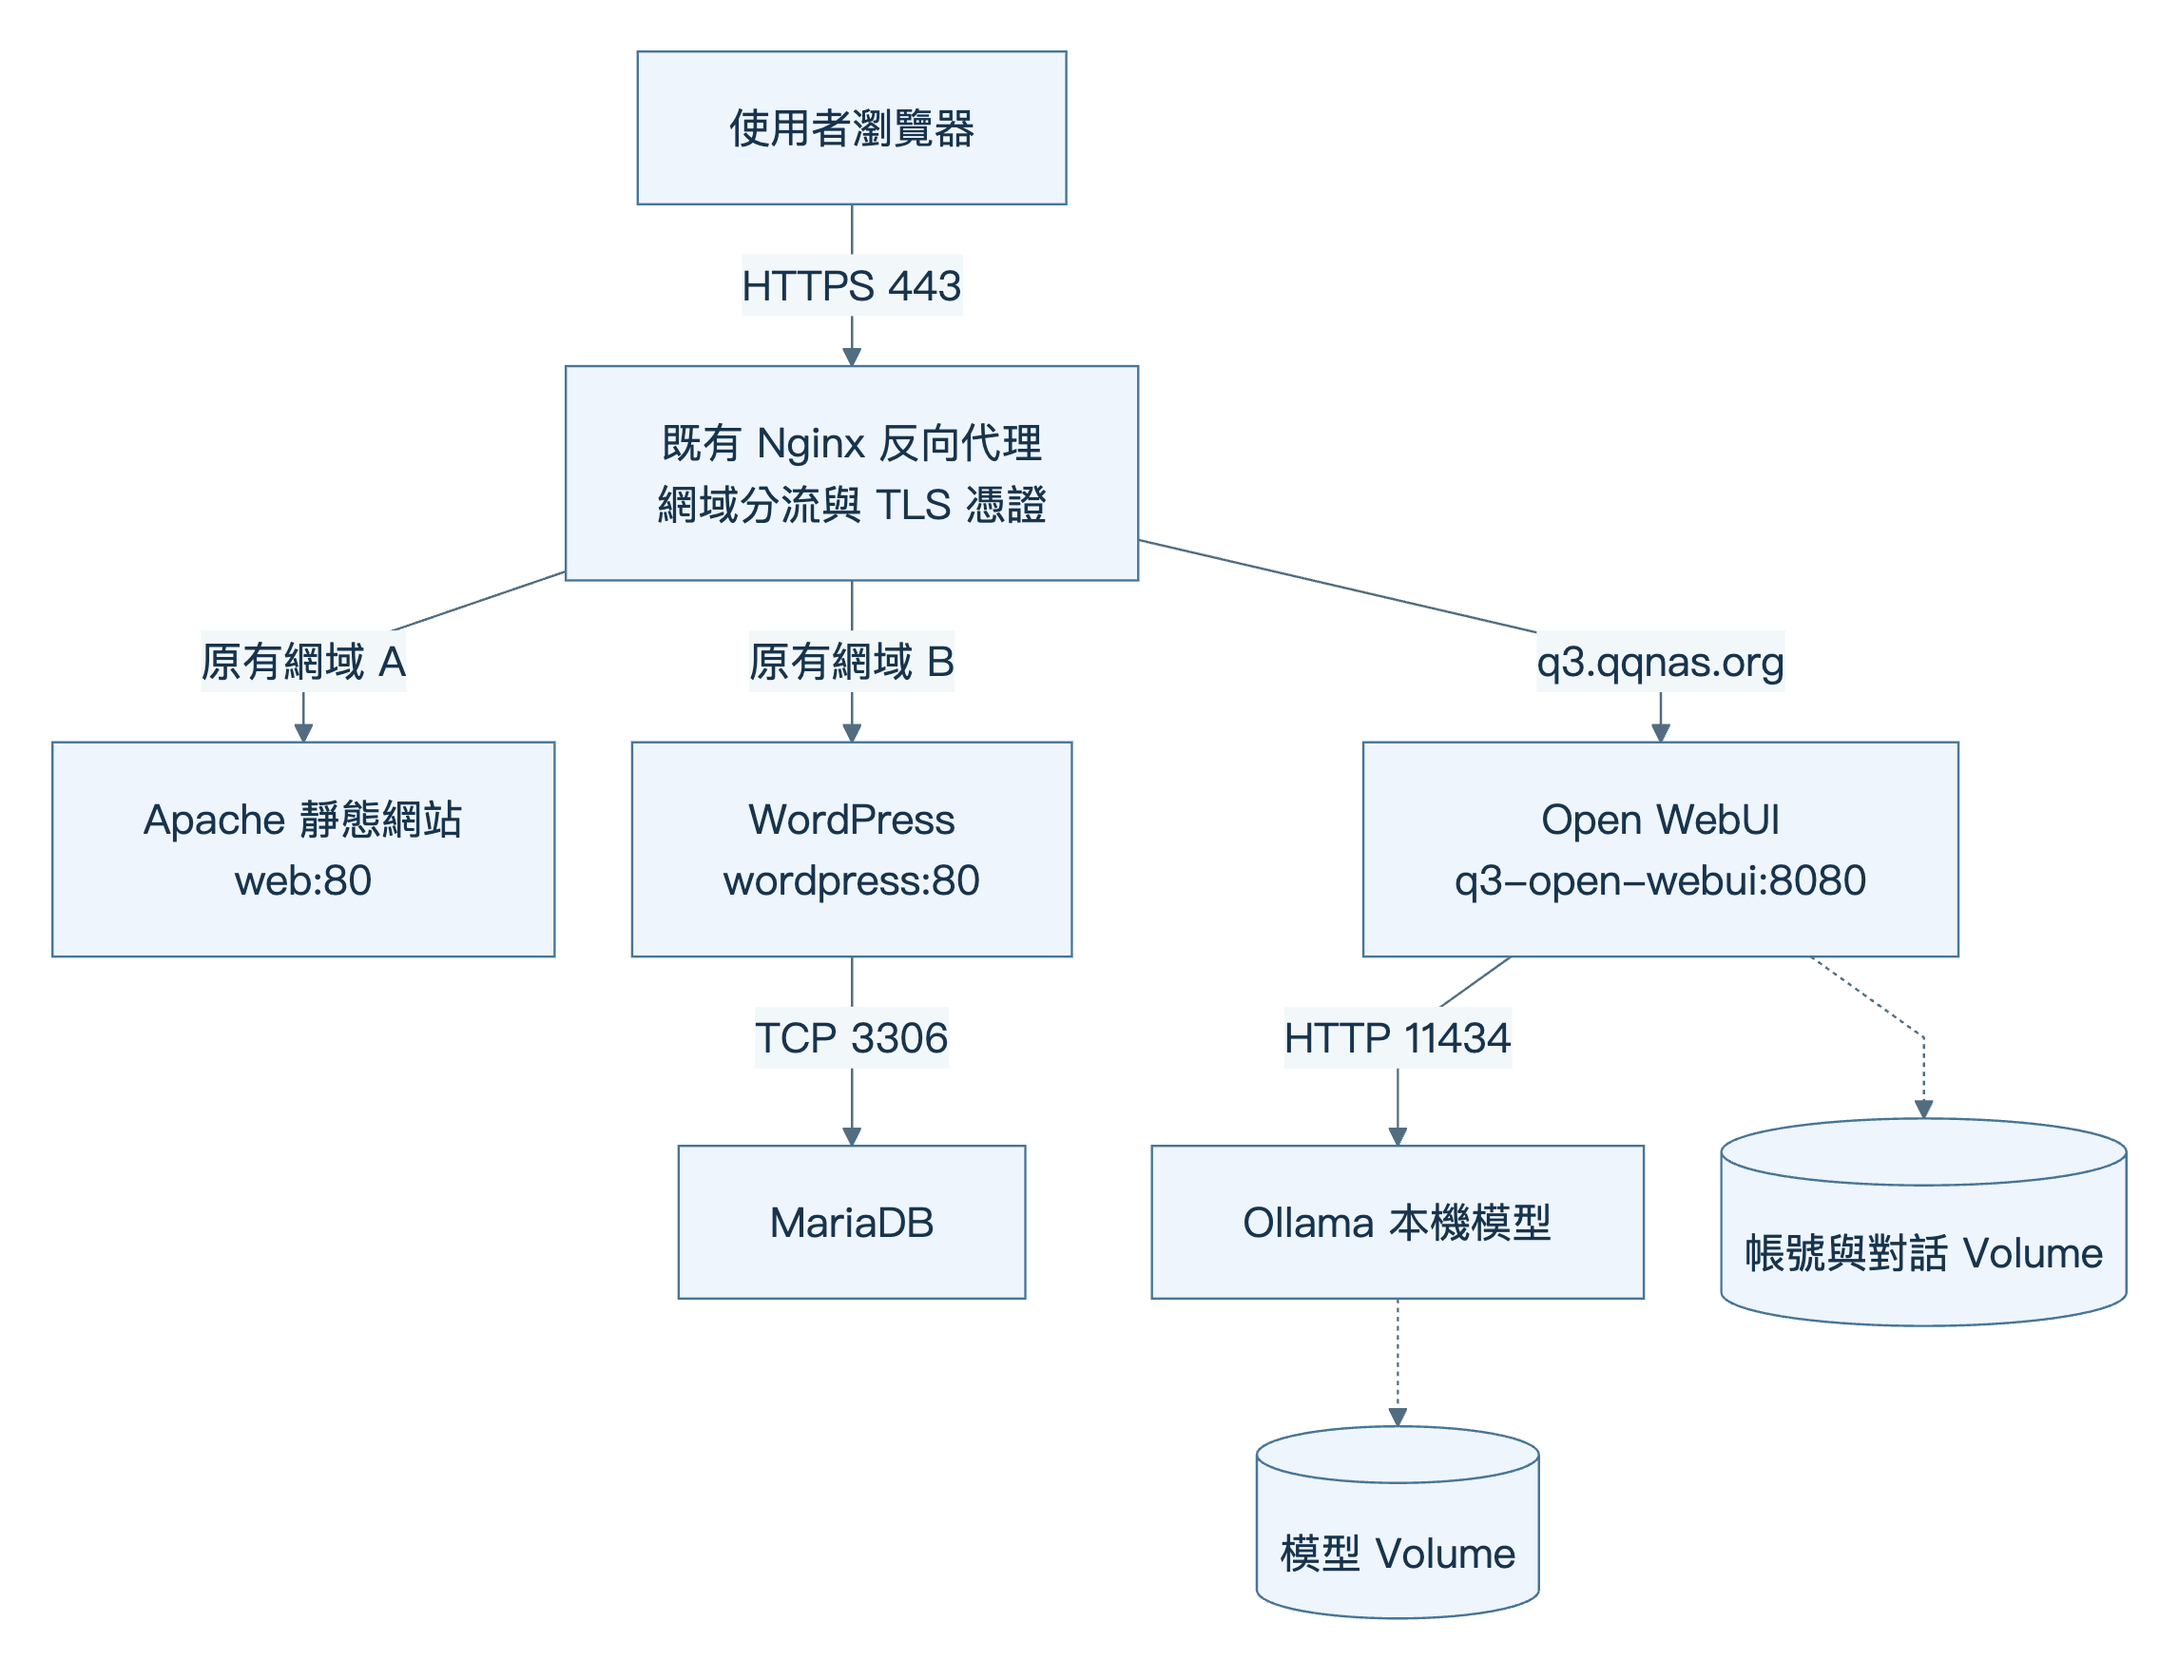
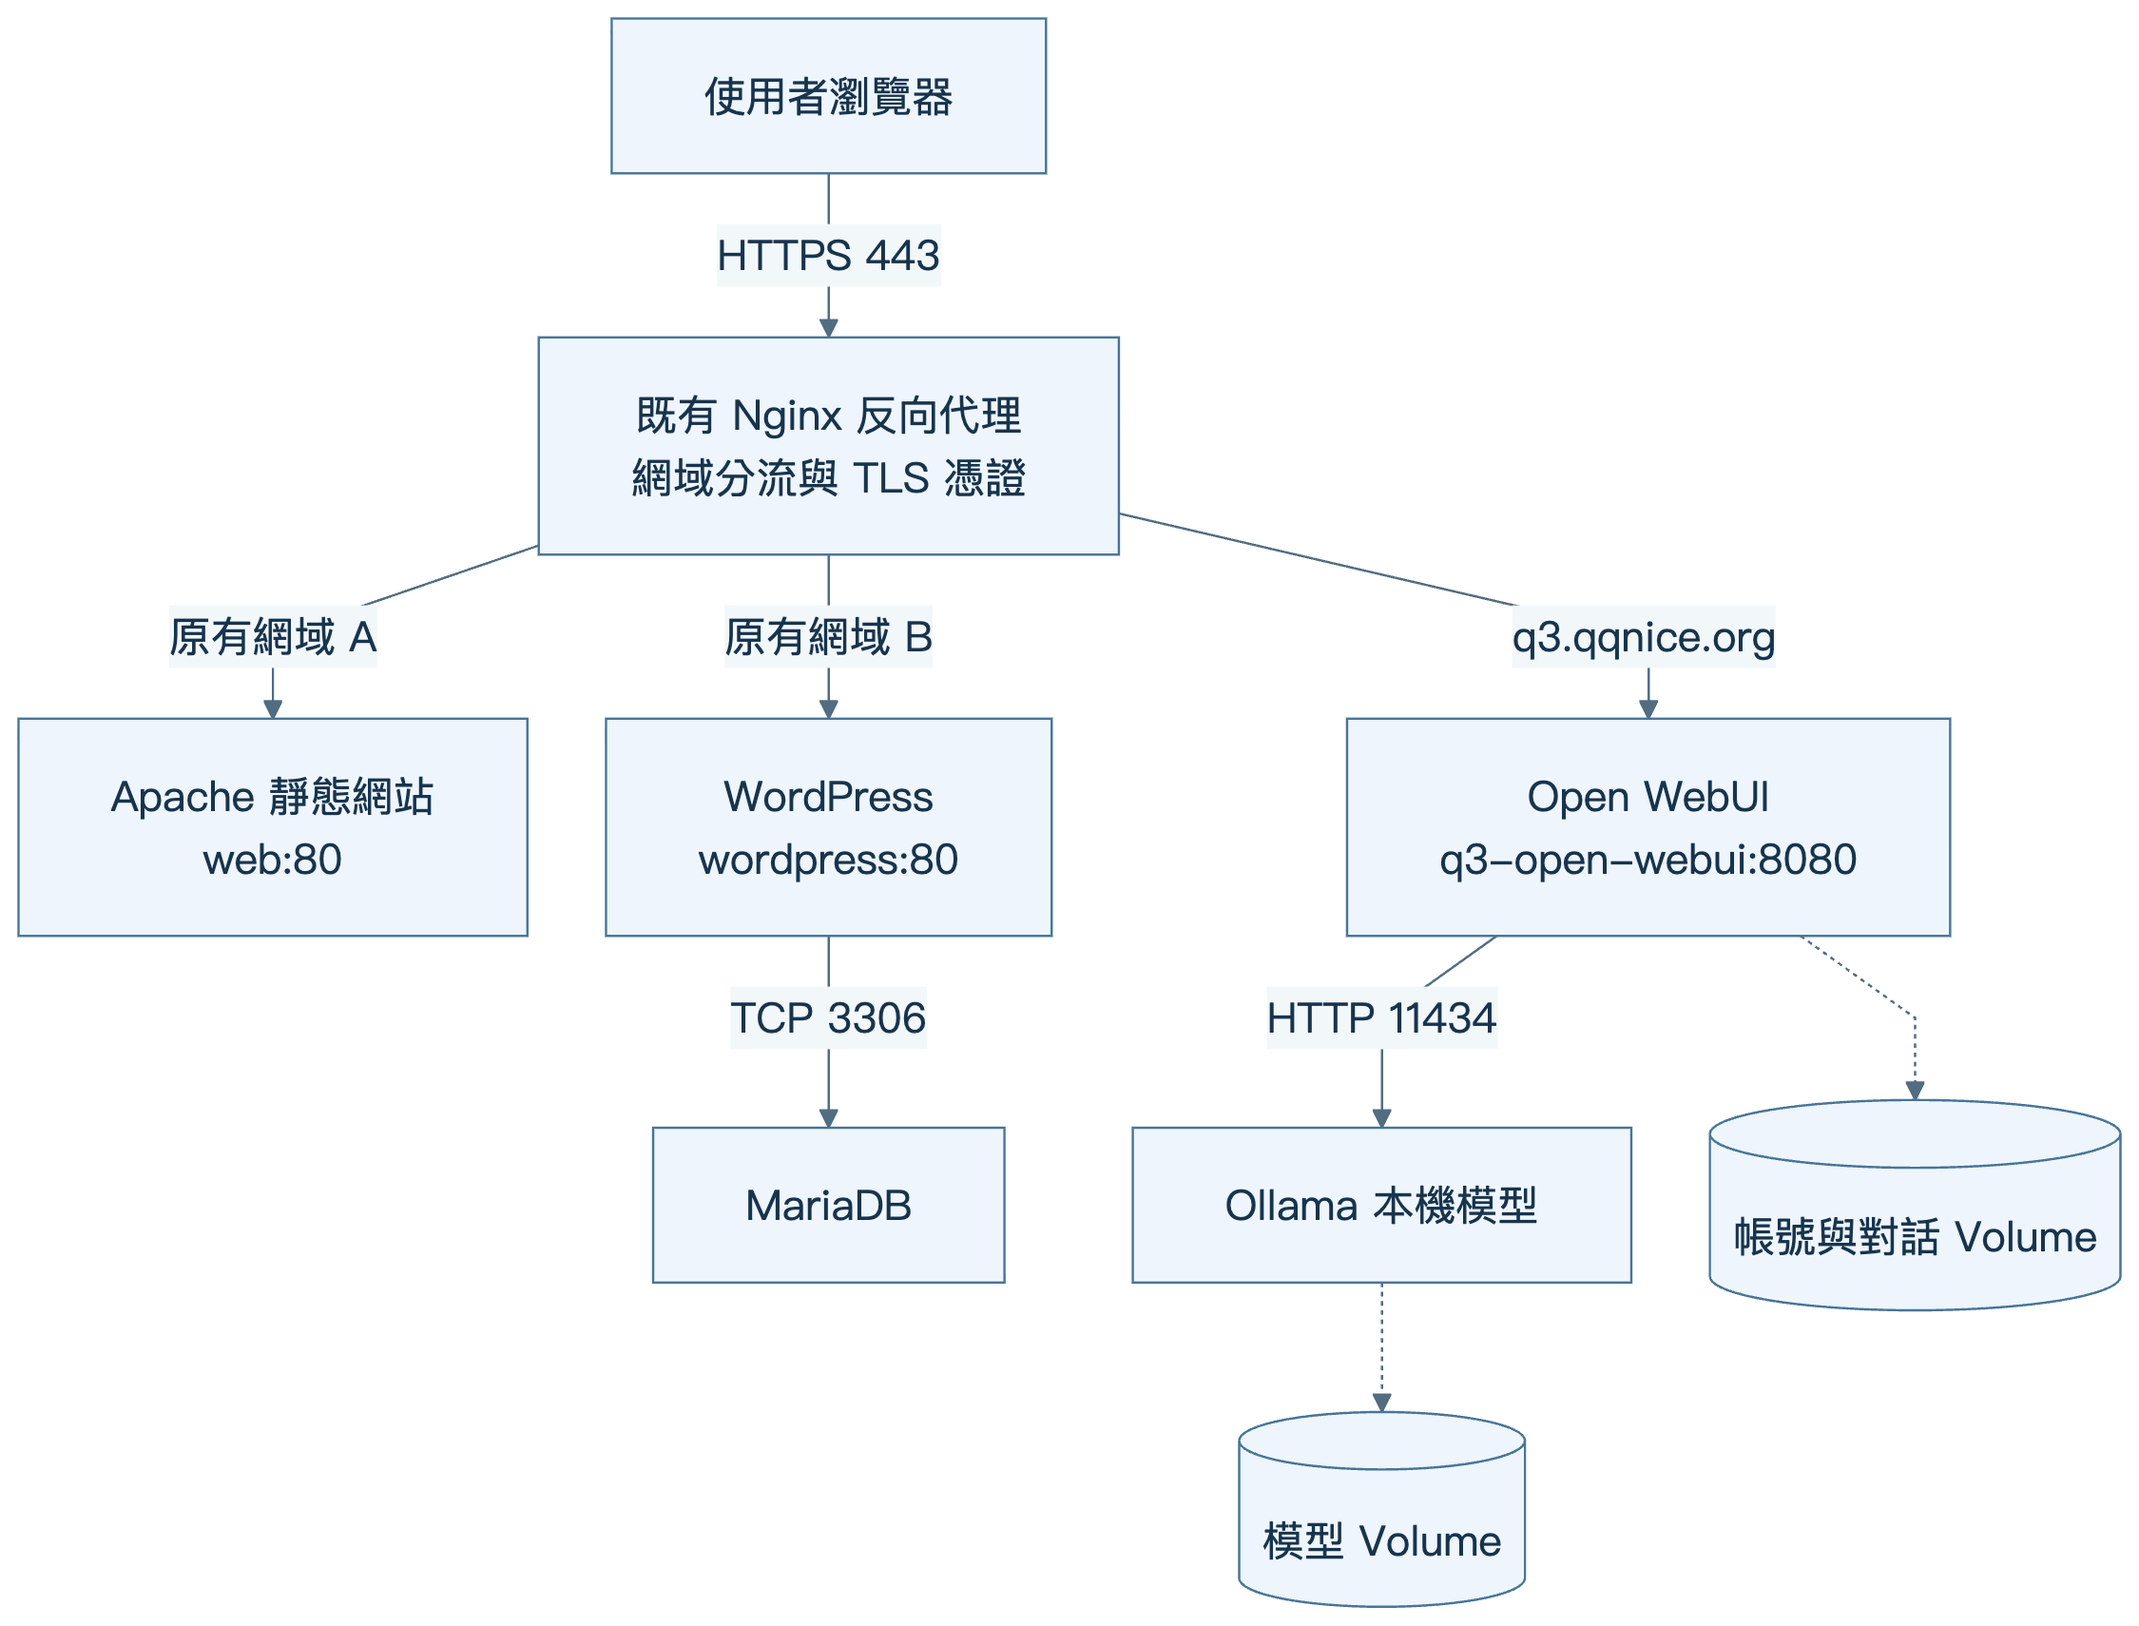
Correct deployment domain to q3.qqnice.org throughout the kit

diff --git a/scripts/check_repo.py b/scripts/check_repo.py
@@ -24,6 +24,18 @@ for path in (root / "scripts").glob("*.sh"):
 
 task = (root / "CODEX_TASK.md").read_text()
 guide = (root / "DEPLOYMENT_REFERENCE.md").read_text()
+domain = "q3.qqnice.org"
+for path in [*root.glob("*.md"), * (root / "templates").glob("*"), * (root / "scripts").glob("*.sh")]:
+    if path.is_file():
+        names = set(re.findall(r"\bq3\.[a-z0-9-]+\.[a-z]+\b", path.read_text()))
+        assert names <= {domain}, (path.name, names)
+for name in ["nginx.http.conf", "nginx.https.conf"]:
+    text = (root / "templates" / name).read_text()
+    assert f"server_name {domain};" in text
+tls = (root / "templates/nginx.https.conf").read_text()
+assert f"https://{domain}$request_uri" in tls
+assert f"/etc/letsencrypt/live/{domain}/fullchain.pem" in tls
+assert f"/etc/letsencrypt/live/{domain}/privkey.pem" in tls
 assert "gemma3:1b" in task and "gemma3:1b" in guide
 assert "qwen3:1.7b" not in guide
 assert "/no_think" not in guide
@@ -76,6 +88,8 @@ if compose_cmd:
     assert config["networks"]["proxy"]["name"] == "q3-proxy"
     assert "q3-open-webui" in services["open-webui"]["networks"]["proxy"]["aliases"]
     assert services["open-webui"]["environment"]["ENABLE_SIGNUP"] == "false"
+    assert services["open-webui"]["environment"]["WEBUI_URL"] == f"https://{domain}"
+    assert services["open-webui"]["environment"]["CORS_ALLOW_ORIGIN"] == f"https://{domain}"
     assert services["open-webui"]["environment"]["OLLAMA_BASE_URL"] == "http://ollama:11434"
     assert services["ollama"]["environment"]["OLLAMA_NO_CLOUD"] == "1"
     assert config["volumes"]["ollama-data"]["name"] == "q3-llm_ollama-data"

diff --git a/CODEX_TASK.md b/CODEX_TASK.md
@@ -4,7 +4,9 @@
 
 ## 1. 任務與完成目標
 
-請在你目前所在的**目標 Linux 虛擬機**上部署 Ollama 與 Open WebUI，讓使用者透過 **https://q3.qqnas.org** 登入、選擇本機模型並完成串流對話。這台 VM 已有兩個網站及 NAS 相關服務，必須保留其功能、資料、網域與既有管理方式。
+本次確認的正式網域為 **q3.qqnice.org**，所有代理、WEBUI_URL、CORS、ACME 憑證及驗收網址都以此為準。如果已有部分部署，先盤點及備份，再修正本次 AI 服務的實際設定；不要只更新 Git 就宣稱主機已改好。正式憑證必須涵蓋這個名稱，不能只改憑證目錄名稱來替代申請。
+
+請在你目前所在的**目標 Linux 虛擬機**上部署 Ollama 與 Open WebUI，讓使用者透過 **https://q3.qqnice.org** 登入、選擇本機模型並完成串流對話。這台 VM 已有兩個網站及 NAS 相關服務，必須保留其功能、資料、網域與既有管理方式。
 
 你需要實際完成：現況盤點、選定入口、備份設定、建立 AI 專案、接上既有代理、正式 HTTPS 憑證、自動續期、功能測試、持久化與備份，以及交付操作紀錄。完成條件見第 8 節。
 
@@ -28,7 +30,7 @@
 
 | 項目 | 現有資訊 |
 | --- | --- |
-| 新服務網域 | q3.qqnas.org |
+| 新服務網域 | q3.qqnice.org |
 | 現有服務 | 兩個網站及 NAS 相關服務，實際名稱／位置需盤點 |
 | 舊教材的一種架構 | 主機 Apache → Docker 後端 8080／8081 |
 | 後期教材的一種架構 | Docker Nginx → Apache 靜態網站、WordPress、MariaDB；Certbot 管憑證 |
@@ -107,7 +109,7 @@ docker stats --no-stream
 - 先以 CPU、小上下文與單併發驗證；模型檔約 0.8 GB 不等於執行 RAM 只需 0.8 GB，還需計入推論快取、WebUI、舊站及系統。資源不足時提出具體缺口，不自動換大型模型。只有 GPU 已可用時直接利用，不為初次部署冒然重啟共用主機。
 - 依剩餘資源調整 CPU、RAM、上下文長度及併發上限，保留原有服務餘裕。手冊的 2 CPU／6 GiB 與 1 CPU／2 GiB 僅為範例，不能在小 VM 上照抄。
 - 兩個容器需有 restart policy、健康檢查、日誌輪替及持久化資料；Ollama 使用 `/root/.ollama`，WebUI 使用 `/app/backend/data`，核對選定版本文件。
-- 固定並保存 WEBUI_SECRET_KEY。首次空資料庫使用已確認管理員信箱及隨機密碼初始化，關閉公開註冊，正式網址設為 https://q3.qqnas.org。既有使用者資料不能靠環境變數重設。
+- 固定並保存 WEBUI_SECRET_KEY。首次空資料庫使用已確認管理員信箱及隨機密碼初始化，關閉公開註冊，正式網址設為 https://q3.qqnice.org。既有使用者資料不能靠環境變數重設。
 - 使用受支援的 Secure cookie、明確 CORS 來源與登入機制；不以停用驗證或允許所有來源處理問題。
 - OLLAMA_BASE_URL 指向容器可達的 Ollama，例如 `http://ollama:11434`；本機模型推論不使用雲端 fallback。停用不需要的雲端模型功能，不加入外部 AI API 金鑰。下載映像／模型仍需連網。
 - 手冊中的互動式 read 指令是給人手動操作；你執行時改用已確認資料安全寫檔，避免無人回覆的等待。不要把未取得的資料填成假值來「通過」驗證。

diff --git a/README.md b/README.md
@@ -1,6 +1,6 @@
 # q3 地端 AI：交給 Ubuntu Codex 的部署任務
 
-在已有兩個網站與 NAS 的 Linux VM 上，新增 **Ollama + Open WebUI + Gemma 3 1B**，透過 **https://q3.qqnas.org** 使用。Codex 先盤點，再依實際 Docker／Apache／Nginx／NAS 入口完成部署及驗收。
+在已有兩個網站與 NAS 的 Linux VM 上，新增 **Ollama + Open WebUI + Gemma 3 1B**，透過 **https://q3.qqnice.org** 使用。Codex 先盤點，再依實際 Docker／Apache／Nginx／NAS 入口完成部署及驗收。
 
 Git 保存任務、範本、檢查工具與架構圖。實際密碼、憑證、模型、聊天資料及主機紀錄保存在 VM，不回推 Git。
 
@@ -19,7 +19,7 @@ cd q3-codex-deploy
 
 在 `q3-codex-deploy` 資料夾啟動你已安裝的 Codex，把下面文字貼到 **Codex 對話**：
 
-> 請讀取 CODEX_TASK.md、DEPLOYMENT_REFERENCE.md 及 templates/README.md，實際在這台 Ubuntu VM 部署 q3.qqnas.org 的 Ollama 與 Open WebUI，預設下載 gemma3:1b。先確認原有兩網站、NAS、Docker 和 80／443 入口，保留既有服務。依任務完成內部推論、HTTPS 憑證、自動續期、備份與驗收，將實際進度保存到 DEPLOYMENT_STATUS.md。一般部署步驟直接繼續，只有缺少必要資料或會中斷原有服務時才問我。現在開始唯讀盤點。
+> 請讀取 CODEX_TASK.md、DEPLOYMENT_REFERENCE.md 及 templates/README.md，實際在這台 Ubuntu VM 部署 q3.qqnice.org 的 Ollama 與 Open WebUI，預設下載 gemma3:1b。先確認原有兩網站、NAS、Docker 和 80／443 入口，保留既有服務。依任務完成內部推論、HTTPS 憑證、自動續期、備份與驗收，將實際進度保存到 DEPLOYMENT_STATUS.md。一般部署步驟直接繼續，只有缺少必要資料或會中斷原有服務時才問我。現在開始唯讀盤點。
 
 Codex 依相依關係持續執行。管理員信箱、憑證聯絡信箱、DNS 或 NAS 權限不足時，集中列出需要你提供的資料；不用預先填一大張主機規格表。
 

diff --git a/AGENTS.md b/AGENTS.md
@@ -1,6 +1,6 @@
 # Repository instructions
 
-This repository is an Ubuntu deployment task kit for q3.qqnas.org, using Ollama, Open WebUI, and the small local model gemma3:1b.
+This repository is an Ubuntu deployment task kit for q3.qqnice.org, using Ollama, Open WebUI, and the small local model gemma3:1b.
 
 - When the user asks to deploy on a Linux VM, read CODEX_TASK.md first, then DEPLOYMENT_REFERENCE.md and templates/README.md. Verify the actual host and existing services before modifying anything.
 - When editing or reviewing this repository, work on the repository only. Do not interpret the deployment instructions as permission to deploy on the development computer.
